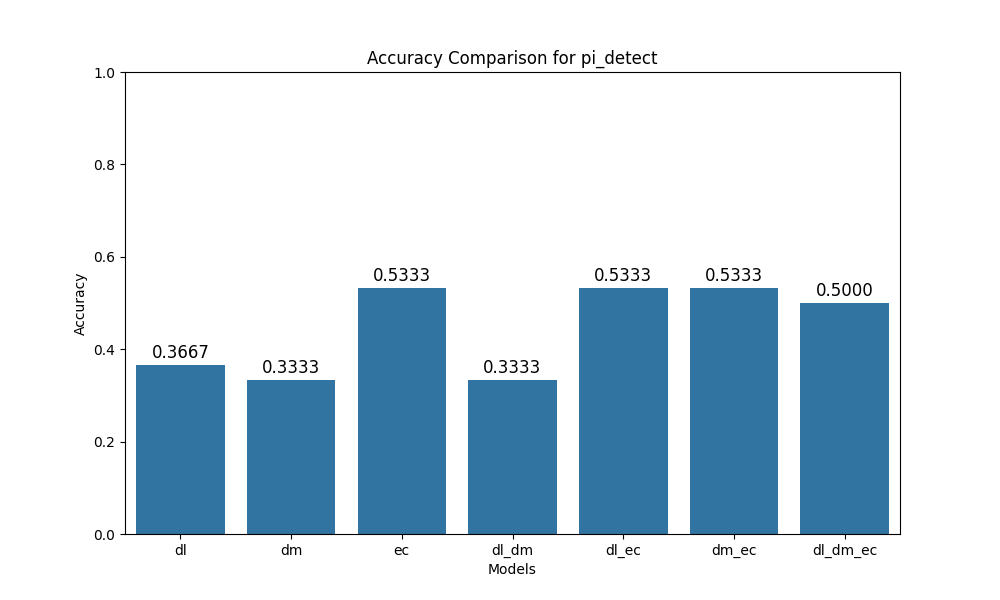
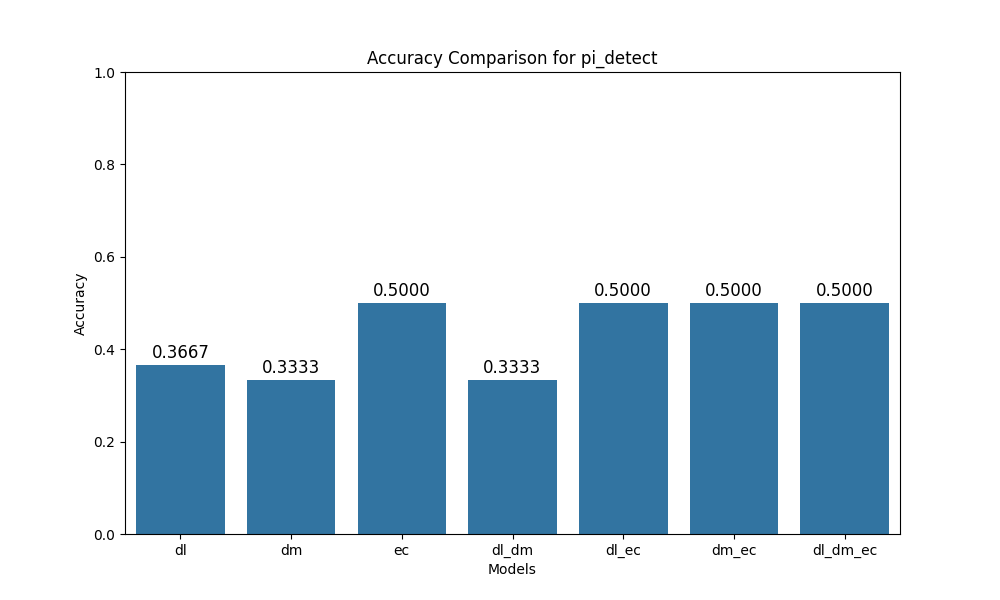
base63 to rot13 ec

Changed region(s): [[0.558, 0.45, 0.775, 0.51], [0.341, 0.45, 0.465, 0.51]]

diff --git a/nonneural_eval.py b/nonneural_eval.py
@@ -69,10 +69,11 @@ def load_prompts(prompt_paths):
     # no args
     # returns: list of tuples that represent a combination of spotlighting methods
 def generate_spotlighting_combos():
-    methods = ["dl", "dm", "ec"] # delimiting, datamarking, encoding
-    combs = []
-    for i in range(1, len(methods) + 1):
-        combs.extend(combinations(methods, i))
+    combs = [('dm', 'ec'), ('dl', 'dm', 'ec')]
+    # methods = ["dl", "dm", "ec"] # delimiting, datamarking, encoding
+    # combs = []
+    # for i in range(1, len(methods) + 1):
+    #     combs.extend(combinations(methods, i))
         
     return combs
 
@@ -89,8 +90,8 @@ def generate_spotlighting_combos():
     #     sys_prompt2 (str, optional) - optional system prompt after the user input
     # returns: the output generated (str)
 def get_spotlighting_output(sys_prompt, user_input, prompt, methods, sys_prompt2=None):
-    encoding_method = "base64"
-    # encoding_method = "rot13"
+    # encoding_method = "base64"
+    encoding_method = "rot13" # keeps text length the same
     # encoding_method = "binary"
 
     sys_prompt += "\n" + prompt
